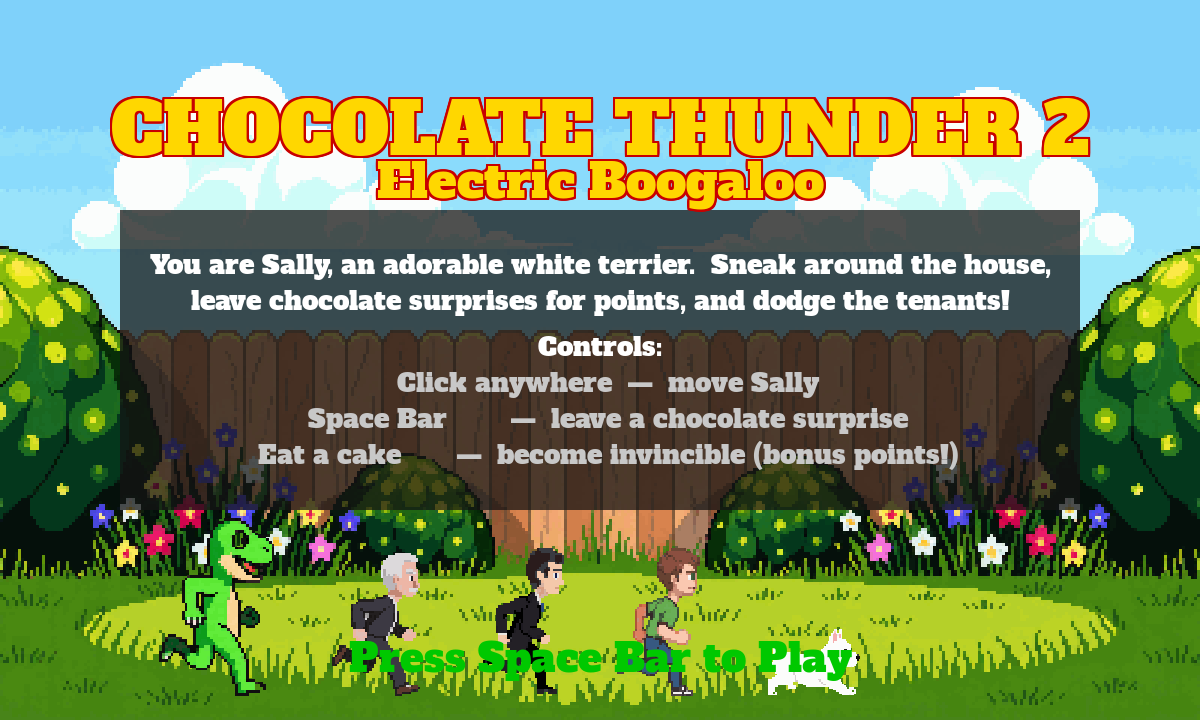
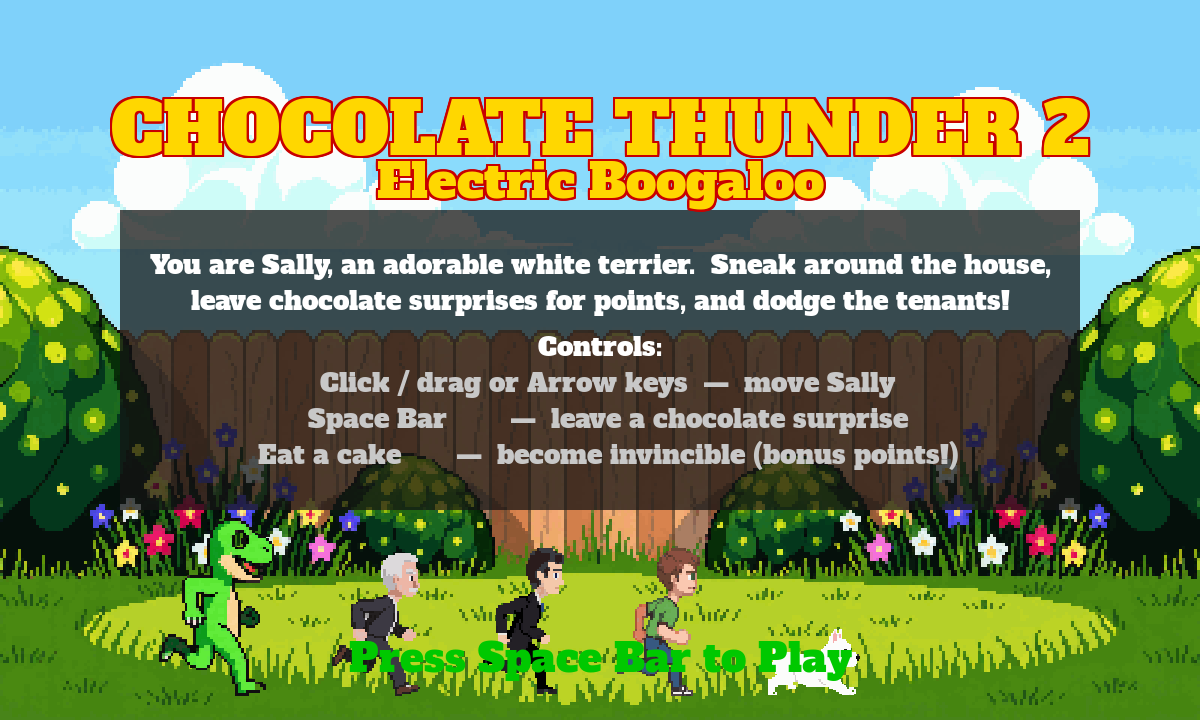
feat(controls): arrow-key steering and click-drag movement for Sally
Adds two control modes alongside the existing click-to-move:
- Arrow keys steer Sally directly (held-key state -> direction vector each
  frame). Non-zero direction overrides the click target; releasing the keys
  pins the seek target to her current spot so she stops instead of darting
  back to a stale click point.
- Click-drag: holding the mouse button and moving retargets Sally to the
  latest cursor position every MOUSEMOTION until release.

Player gains set_move_dir(); PlayScreen tracks _mouse_held and _held_dirs and
translates them in handle_event/update. Arrow movement still respects the
obstacle move-and-slide (verified it can't tunnel into furniture). Help/start
controls text updated. Tests: 138 pass (added drag-follow, arrow-move, and
arrow-release-stop cases).

Changed region(s): [[0.2467, 0.5194, 0.7708, 0.55]]

diff --git a/game/entities/player.py b/game/entities/player.py
@@ -1,8 +1,13 @@
 """Player entity — Sally, the chocolate-depositing terrier.
 
-Click-to-move: target is set on MOUSEBUTTONDOWN, Sally walks toward it at
-PLAYER_SPEED px/frame. Invincibility (from cakes) is tracked here so both
-PlayScreen collision checks and the MCP set_invincible tool share one source.
+Movement has two modes, both at PLAYER_SPEED px/frame:
+  - Click / click-drag: PlayScreen sets a target (the latest cursor position
+    while the button is held) via ``set_target``; Sally seeks it.
+  - Arrow keys: PlayScreen sets a direction via ``set_move_dir``; a non-zero
+    direction steers Sally directly and overrides the seek target.
+
+Invincibility (from cakes) is tracked here so both PlayScreen collision checks
+and the MCP set_invincible tool share one source.
 """
 
 from __future__ import annotations
@@ -24,6 +29,7 @@ class Player(DirectionalSprite):
         self._frames_powered = self._load_powered_frames()
         super().__init__(self._frames_normal, pos, hitbox_size=config.PLAYER_SIZE)
         self._target: pygame.Vector2 = pygame.Vector2(pos)
+        self._move_dir: pygame.Vector2 = pygame.Vector2(0, 0)  # arrow-key steer
         self.is_invincible: bool = False
         self._invincible_remaining: float = 0.0
 
@@ -49,6 +55,11 @@ class Player(DirectionalSprite):
     def set_target(self, pos) -> None:
         self._target = pygame.Vector2(pos)
 
+    def set_move_dir(self, dx: float, dy: float) -> None:
+        """Set the arrow-key movement direction (0,0 = none). A non-zero direction
+        steers Sally directly, overriding the click/drag seek target."""
+        self._move_dir = pygame.Vector2(dx, dy)
+
     def set_invincible(self, state: bool) -> None:
         """Activate or deactivate invincibility. MCP set_invincible calls this."""
         self.is_invincible = state
@@ -57,16 +68,34 @@ class Player(DirectionalSprite):
     def update(self, dt: float, bounds: pygame.Rect) -> None:
         self._apply_powered_skin()
         current = pygame.Vector2(self.rect.center)
-        diff = self._target - current
-        if diff.length() > config.PLAYER_SPEED:
-            step = diff.normalize() * config.PLAYER_SPEED
+
+        # Arrow keys steer directly and win over the click/drag target; otherwise
+        # Sally seeks the latest click/drag position.
+        arrow_driving = self._move_dir.length_squared() > 0
+        if arrow_driving:
+            step = self._move_dir.normalize() * config.PLAYER_SPEED
+        else:
+            diff = self._target - current
+            step = (
+                diff.normalize() * config.PLAYER_SPEED
+                if diff.length() > config.PLAYER_SPEED
+                else pygame.Vector2()
+            )
+
+        if step.length_squared() > 0:
             self.rect.center = current + step
             if abs(step.x) >= abs(step.y):
                 self.set_status("right" if step.x > 0 else "left")
             else:
                 self.set_status("down" if step.y > 0 else "up")
             self.animate(dt)
+
         clamp_rect(self.rect, bounds)
+        # While arrow-driving, pin the seek target to where Sally ended up so that
+        # releasing the keys stops her here instead of darting back to a stale click.
+        if arrow_driving:
+            self._target = pygame.Vector2(self.rect.center)
+
         if self.is_invincible:
             self._invincible_remaining -= dt
             if self._invincible_remaining <= 0.0:

diff --git a/game/screens/play.py b/game/screens/play.py
@@ -23,9 +23,12 @@ from game.state_machine import GameState
 
 _HUD_H = 50  # px reserved at the top for score + timer
 
+_ARROW_KEYS = (pygame.K_LEFT, pygame.K_RIGHT, pygame.K_UP, pygame.K_DOWN)
+
 _HELP_LINES = (
     "Controls",
-    "Click anywhere  —  move Sally",
+    "Click or drag  —  send Sally to the cursor",
+    "Arrow keys  —  steer Sally directly",
     "Space Bar  —  drop a chocolate surprise",
     "Eat a cake  —  become invincible (bonus points!)",
     "Dodge the tenants  —  caught = game over",
@@ -69,6 +72,11 @@ class PlayScreen:
             help_h,
         )
         self._help_visible: bool = False
+
+        # Control state: True while dragging Sally with the mouse held down, and the
+        # set of arrow keys currently held for direct steering.
+        self._mouse_held: bool = False
+        self._held_dirs: set[int] = set()
 
         self._build_level(self.level)
 
@@ -205,13 +213,25 @@ class PlayScreen:
 
     def handle_event(self, event: pygame.event.Event) -> None:
         if event.type == pygame.MOUSEMOTION:
-            self._help_visible = self._help_btn.collidepoint(event.pos)
+            if self._mouse_held:
+                # Click-drag: keep retargeting Sally to the latest cursor position.
+                self._player.set_target(event.pos)
+            else:
+                self._help_visible = self._help_btn.collidepoint(event.pos)
         elif event.type == pygame.MOUSEBUTTONDOWN:
             if not self._help_visible:
+                self._mouse_held = True
                 self._player.set_target(event.pos)
-        elif event.type == pygame.KEYDOWN and event.key == pygame.K_SPACE:
-            if not self._help_visible and self._poo_cooldown_remaining <= 0.0:
-                self._place_poo()
+        elif event.type == pygame.MOUSEBUTTONUP:
+            self._mouse_held = False
+        elif event.type == pygame.KEYDOWN:
+            if event.key == pygame.K_SPACE:
+                if not self._help_visible and self._poo_cooldown_remaining <= 0.0:
+                    self._place_poo()
+            elif event.key in _ARROW_KEYS:
+                self._held_dirs.add(event.key)
+        elif event.type == pygame.KEYUP:
+            self._held_dirs.discard(event.key)
 
     def _place_poo(self) -> None:
         powered = self._player.is_invincible
@@ -240,6 +260,11 @@ class PlayScreen:
         self._powerup_spawn_timer -= dt
         if self._powerup_spawn_timer <= 0.0 and not self._powerups:
             self.spawn_powerup()
+
+        # Translate held arrow keys into a steering direction (overrides click/drag).
+        dx = (pygame.K_RIGHT in self._held_dirs) - (pygame.K_LEFT in self._held_dirs)
+        dy = (pygame.K_DOWN in self._held_dirs) - (pygame.K_UP in self._held_dirs)
+        self._player.set_move_dir(dx, dy)
 
         # Move each character, then resolve against the obstacle silhouettes with
         # move-and-slide so they glide around furniture instead of pinning on it.

diff --git a/tests/test_play.py b/tests/test_play.py
@@ -79,6 +79,41 @@ def test_mouse_click_sets_player_target(pygame_env):
     assert ps._player._target == pygame.Vector2(100, 200)
 
 
+def test_mouse_drag_follows_cursor_until_release(pygame_env):
+    """Holding the button and moving retargets Sally to the latest cursor position;
+    after release, further motion no longer moves the target."""
+    ps, _, _ = _make_ps(pygame_env)
+    ps.handle_event(pygame.event.Event(pygame.MOUSEBUTTONDOWN, pos=(100, 200), button=1))
+    # Drag: motion while held updates the target.
+    ps.handle_event(pygame.event.Event(pygame.MOUSEMOTION, pos=(300, 400), rel=(200, 200), buttons=(1, 0, 0)))
+    assert ps._player._target == pygame.Vector2(300, 400)
+    # Release, then move again — target must stay put.
+    ps.handle_event(pygame.event.Event(pygame.MOUSEBUTTONUP, pos=(300, 400), button=1))
+    ps.handle_event(pygame.event.Event(pygame.MOUSEMOTION, pos=(500, 500), rel=(200, 100), buttons=(0, 0, 0)))
+    assert ps._player._target == pygame.Vector2(300, 400)
+
+
+def test_arrow_key_moves_player(pygame_env):
+    """Holding an arrow key steers Sally directly that frame (overriding the target)."""
+    ps, _, _ = _make_ps(pygame_env)
+    start_x = ps._player.rect.centerx
+    ps.handle_event(pygame.event.Event(pygame.KEYDOWN, key=pygame.K_RIGHT, mod=0, unicode=""))
+    ps.update(0.016)
+    assert ps._player.rect.centerx == start_x + config.PLAYER_SPEED
+    assert ps._player.status == "right"
+
+
+def test_arrow_key_release_stops_player(pygame_env):
+    """Releasing the arrow key halts Sally where she is (no snap to a stale target)."""
+    ps, _, _ = _make_ps(pygame_env)
+    ps.handle_event(pygame.event.Event(pygame.KEYDOWN, key=pygame.K_RIGHT, mod=0, unicode=""))
+    ps.update(0.016)
+    rested_x = ps._player.rect.centerx
+    ps.handle_event(pygame.event.Event(pygame.KEYUP, key=pygame.K_RIGHT, mod=0, unicode=""))
+    ps.update(0.016)
+    assert ps._player.rect.centerx == rested_x
+
+
 @pytest.mark.log_meta(phase="phase_3", subtask="3.3", action="space drops poo scores 1")
 def test_space_drops_poo_and_scores(pygame_env):
     """KEYDOWN K_SPACE spawns one poo and awards SCORE_DEFAULT points."""

diff --git a/game/screens/start.py b/game/screens/start.py
@@ -29,7 +29,7 @@ _BLURB = (
 )
 _CONTROLS = (
     "Controls:",
-    "  Click anywhere  —  move Sally",
+    "  Click / drag or Arrow keys  —  move Sally",
     "  Space Bar        —  leave a chocolate surprise",
     "  Eat a cake       —  become invincible (bonus points!)",
 )
